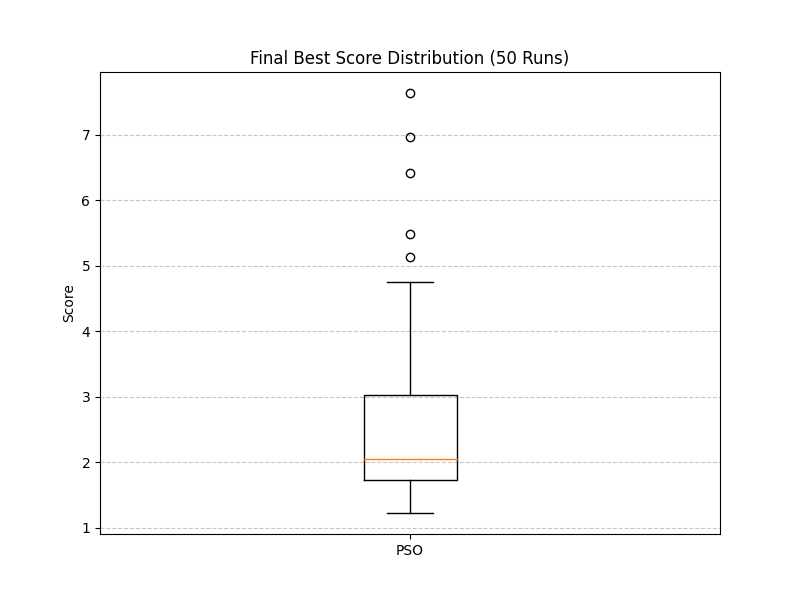
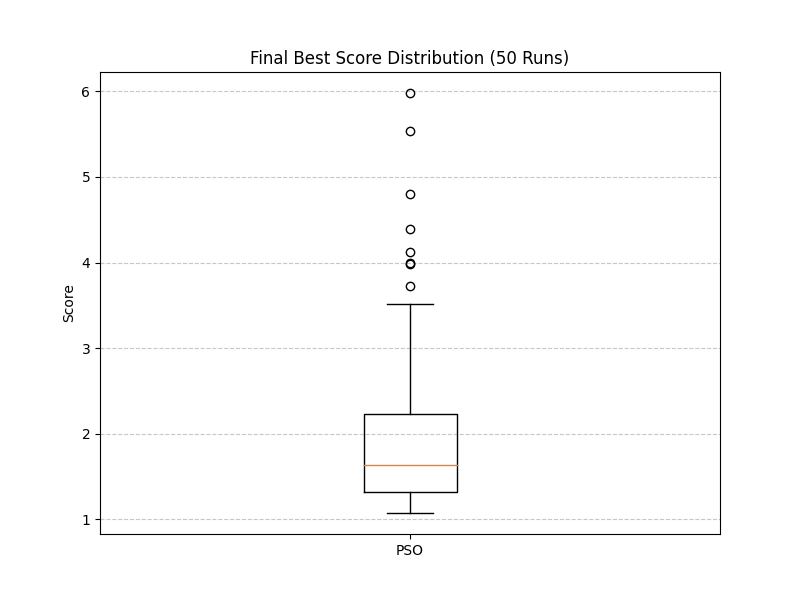
update: update benckmarks to right functions

diff --git a/main.py b/main.py
@@ -1,4 +1,4 @@
-import benchmark
+import benchmarks
 from algorithms.pso import PSO
 from utils.visualizer import plot_convergence_curve, plot_box_result
 import numpy as np
@@ -8,7 +8,7 @@ def run_experiment(func_name, dim=30, max_iter=500, pop_size=50, runs=50):
     """
     針對單一函數執行完整的 50 Runs 實驗並產出圖表
     """
-    obj_func = benchmark.functions[func_name]
+    obj_func = benchmarks.functions[func_name]
     bounds = (-100, 100) # 大部分基準函數的預設範圍
     
     all_runs_best_scores = []

diff --git a/benchmarks.py b/benchmarks.py
@@ -102,3 +102,13 @@ def F17(x):
     term1 = a * (x2 - b * x1**2 + c * x1 - r)**2
     term2 = s * (1 - t) * np.cos(x1)
     return term1 + term2 + s
+
+functions = {
+    "F2": F2,
+    "F6": F6,
+    "F9": F9,
+    "F11": F11,
+    "F13": F13,
+    "F15": F15,
+    "F17": F17
+}
